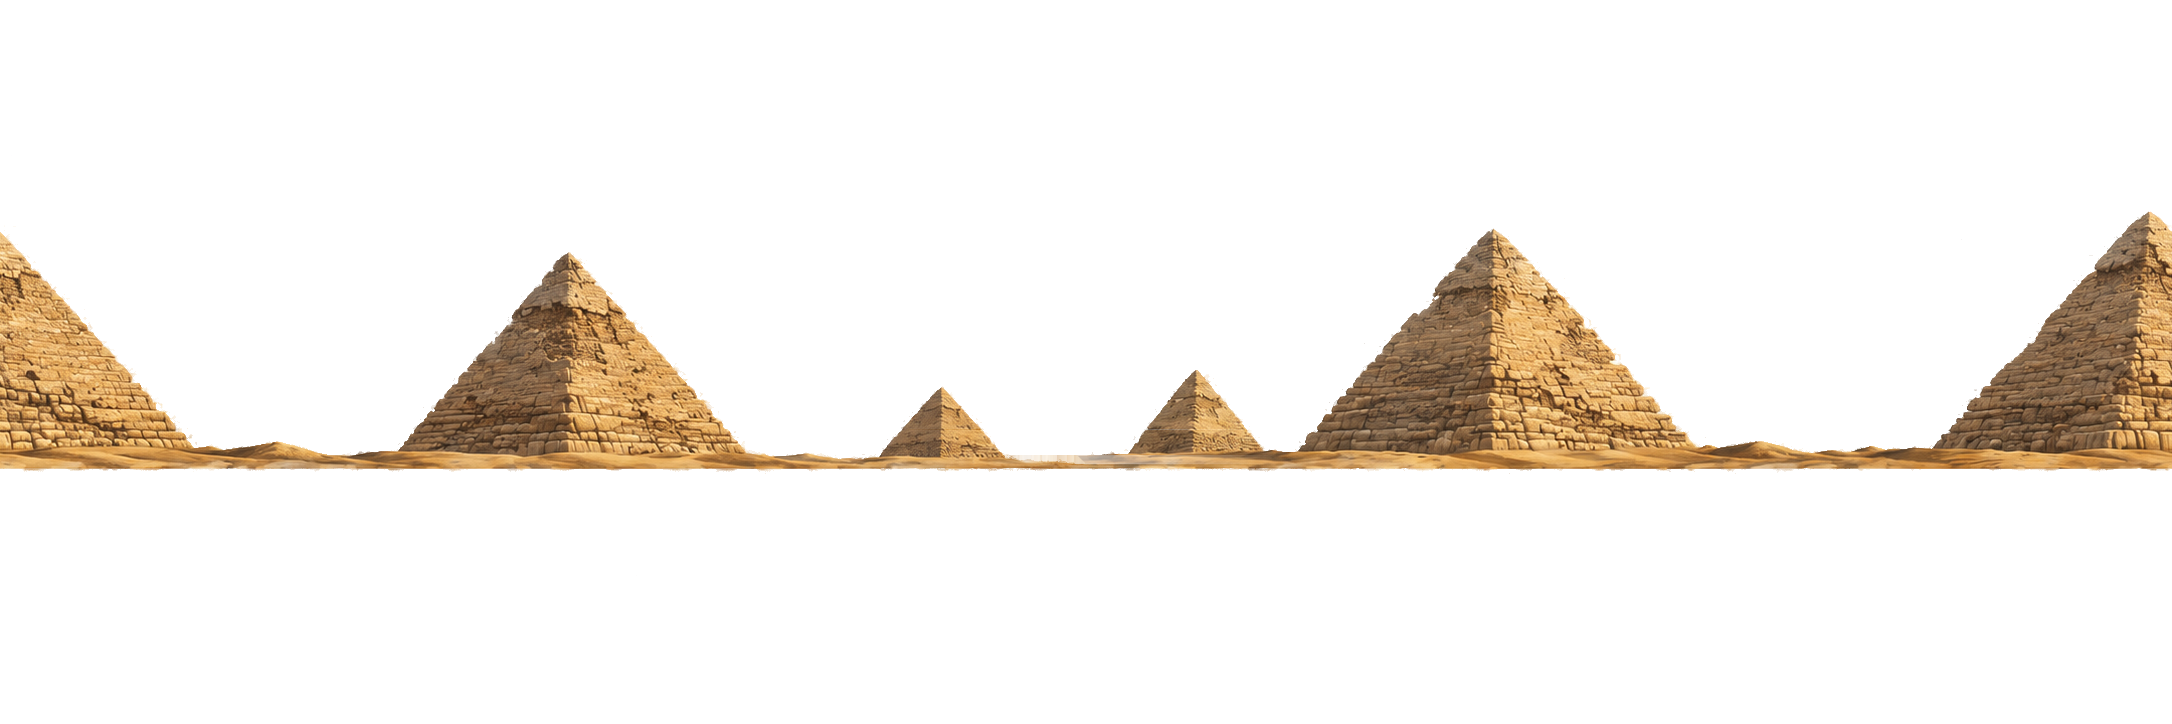
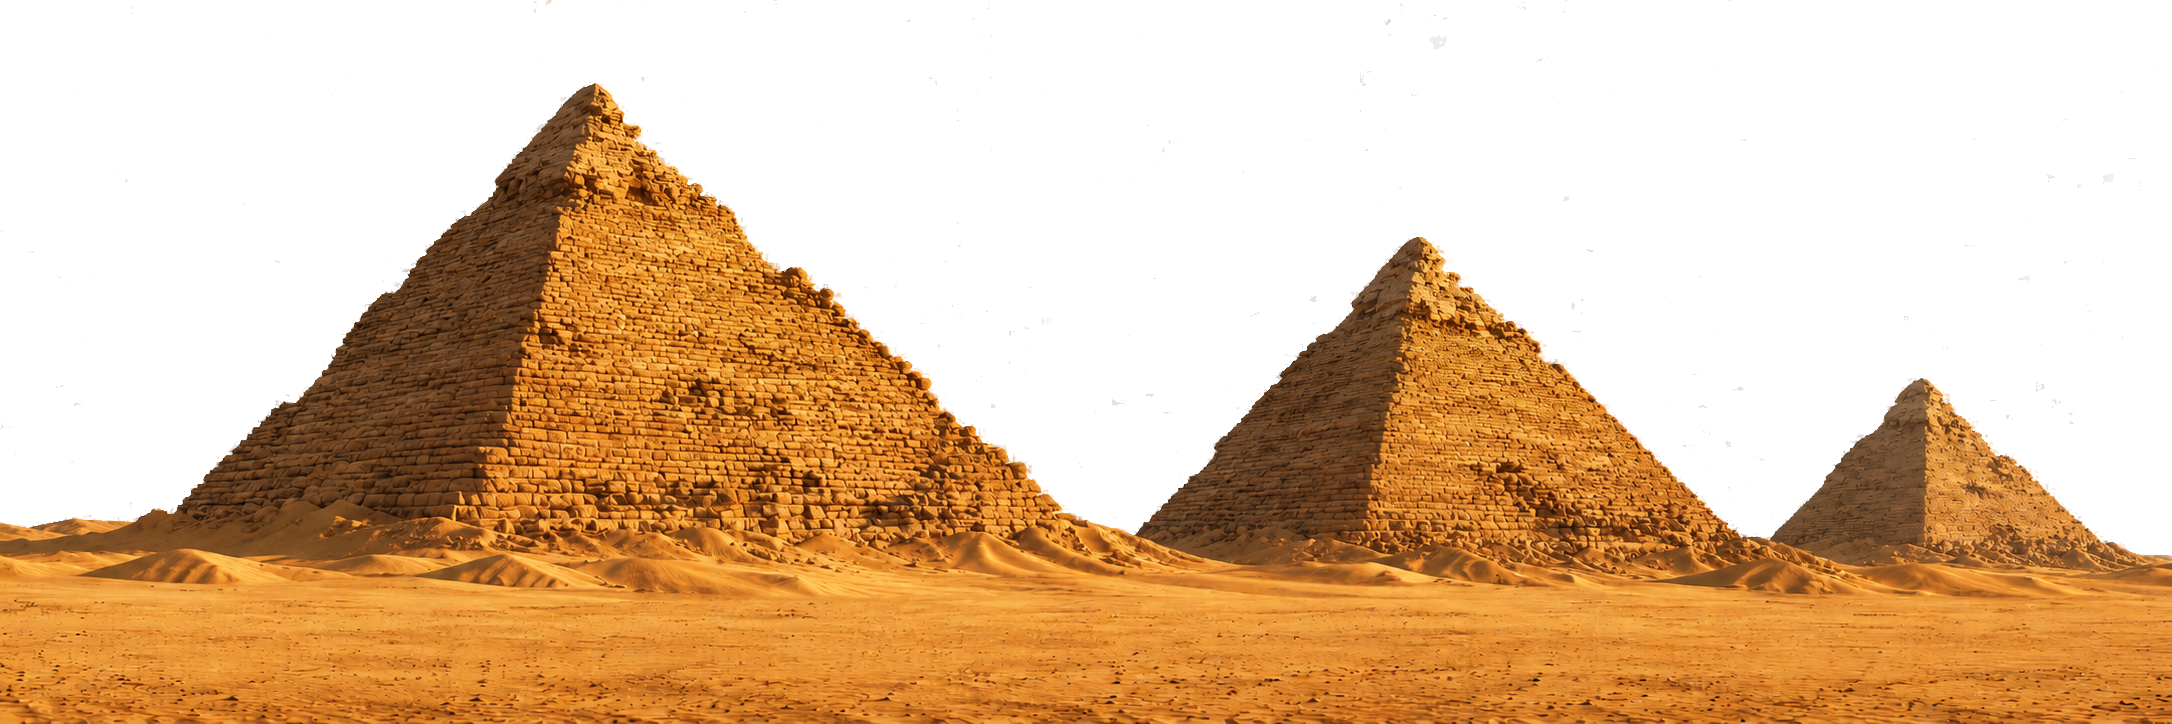
Draw grounded pyramids once (non-tiling) so they never repeat
Replace the tiled far-pyramids layer with the new grounded pyramid plate
(sand mounds at the bases) drawn as a single non-tiling, world-anchored
image at backdrop size (height 440, bases on the floor) and low parallax
(0.14) so it stays pinned to the horizon. Fixes the repeating-pyramids
problem (distinctive shapes no longer re-appear on scroll) and the float
(grounded art + bases at the ground line) without the oversize hack.

diff --git a/src/components/expedition-journey/useJourneyRenderer.js b/src/components/expedition-journey/useJourneyRenderer.js
@@ -3777,19 +3777,32 @@ export function drawDesertEntryBackgroundFrame(ctx, section, cameraX, deps) {
   );
   if (!skyDrawn) return false;
 
-  // Cliffs drawn first as the far backdrop (slowest parallax); the imposing
-  // pyramids draw on top and a touch faster so they dominate the frame without
-  // inverted parallax — a deliberate oversized-grandeur composition. The
-  // pyramids are drawn oversized (1.2x canvas height, top-anchored) so their
-  // bases sink below the ground line and behind the ruins instead of floating.
+  // Cliffs drawn first as the far backdrop (slowest, tiled).
   drawDesertBackgroundLayer(ctx, assets, 'distantCliffs', fullFrame, { ...layerOptions, parallax: 0.055, alpha: 1 });
-  drawDesertBackgroundLayer(
-    ctx,
-    assets,
-    'farPyramids',
-    { y: 0, height: Math.round(CANVAS_HEIGHT * 1.2) },
-    { ...layerOptions, parallax: 0.14, alpha: 1 },
-  );
+
+  // Imposing pyramids drawn ONCE (non-tiling, world-anchored) so the
+  // distinctive shapes never repeat as the player scrolls. Grounded in the art
+  // (sand mounds at the bases), drawn at backdrop size with the bases sitting
+  // on the necropolis floor, and at low parallax so they stay pinned to the
+  // horizon. Position/size/base are dev-tunable.
+  const pyrRegion = assets.atlas?.regions?.farPyramids;
+  const pyrImage = pyrRegion?.image ? assets.images?.[pyrRegion.image] : null;
+  if (pyrImage && pyrRegion) {
+    const PYR_SECTION_FRACTION = 0.5; // anchored mid-section
+    const PYR_PARALLAX = 0.14;
+    const PYR_HEIGHT = 440;
+    const PYR_BASE_Y = 600;           // screen Y of the pyramid bases (ground line)
+    const sectionWidth = Math.max(1, section.end - section.start);
+    const pyrWorldX = section.start + sectionWidth * PYR_SECTION_FRACTION;
+    const pyrWidth = PYR_HEIGHT * (pyrRegion.w / pyrRegion.h);
+    const pyrX = (pyrWorldX - cameraX) * PYR_PARALLAX + CANVAS_WIDTH / 2 - pyrWidth / 2;
+    ctx.drawImage(
+      pyrImage,
+      pyrRegion.x, pyrRegion.y, pyrRegion.w, pyrRegion.h,
+      Math.round(pyrX), PYR_BASE_Y - PYR_HEIGHT, Math.round(pyrWidth), PYR_HEIGHT,
+    );
+  }
+
   drawDesertBackgroundLayer(ctx, assets, 'midNecropolisRuins', fullFrame, { ...layerOptions, parallax: 0.28, alpha: 1 });
 
   // Placed Sphinx landmark: a single non-tiling monument grounded at the
